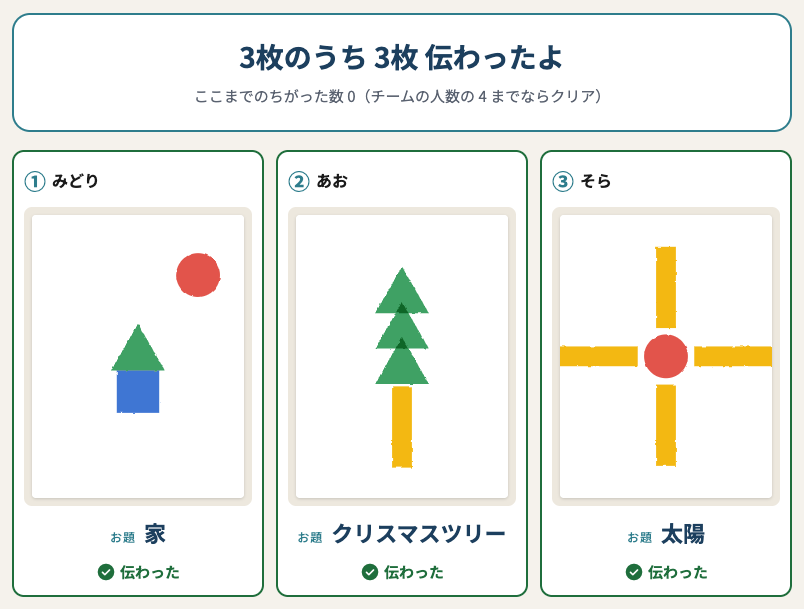
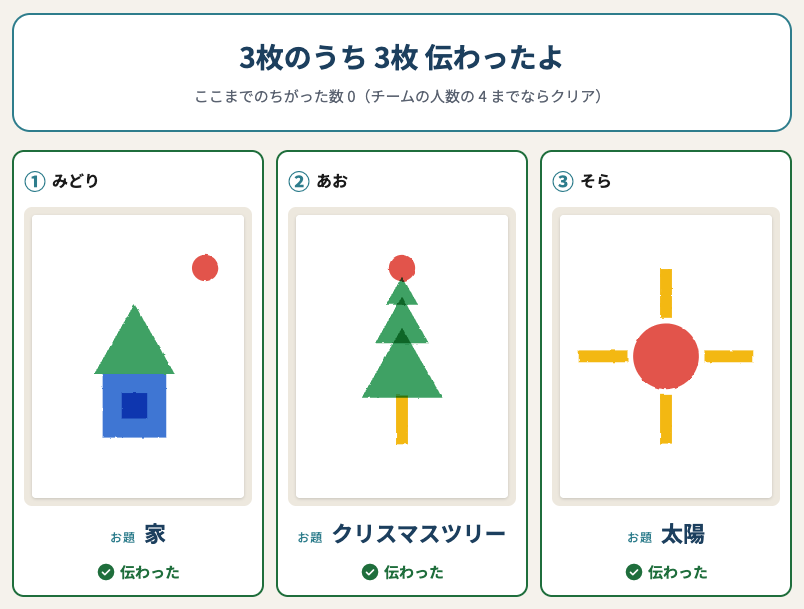
chore(stamp-ate): サムネイルを大きさのちがうスタンプを使った絵に撮り直す
スタンプの大きさを選べる設定の追加に合わせた差し替え。撮り方・名前・お題は
前回と同じで、絵は撮影用の見本（小さい・ふつう・大きいスタンプを使う）。
大きさは 804×609 のまま。一覧のカードの alt と撮影記録も合わせて更新。

diff --git a/apps/index.html b/apps/index.html
@@ -1556,7 +1556,7 @@
         <a class="app-card" href="stamp-ate/" data-slides data-scenes="bodoge circle" data-yomi="すたんぷあてげーむ" data-keywords="協力、お絵描き、当てっこ">
           <div class="app-card__icon">
             <span class="material-symbols-rounded" aria-hidden="true">approval</span>
-            <img class="app-card__thumbnail" src="assets/thumbnails/stamp-ate.png" alt="四角と三角の家、三角を重ねたクリスマスツリー、丸と長方形の太陽をスタンプで作った絵と、答え合わせのお題が並ぶ画面" width="804" height="609" loading="lazy" decoding="async" />
+            <img class="app-card__thumbnail" src="assets/thumbnails/stamp-ate.png" alt="大きい四角と三角の家、大きさのちがう三角を重ねたクリスマスツリー、大きい丸と小さい長方形の太陽をスタンプで作った絵と、答え合わせのお題が並ぶ画面" width="804" height="609" loading="lazy" decoding="async" />
           </div>
           <div class="app-card__body">
             <div class="app-card__name">スタンプあてゲーム</div>
